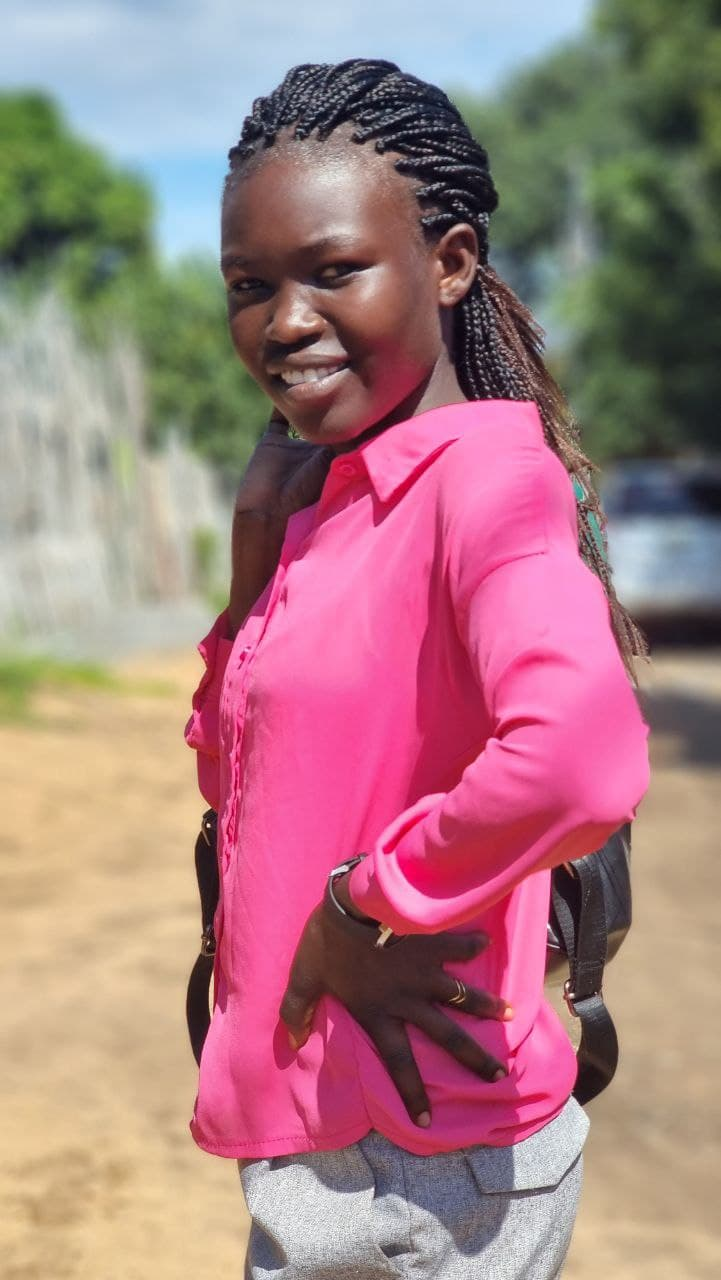
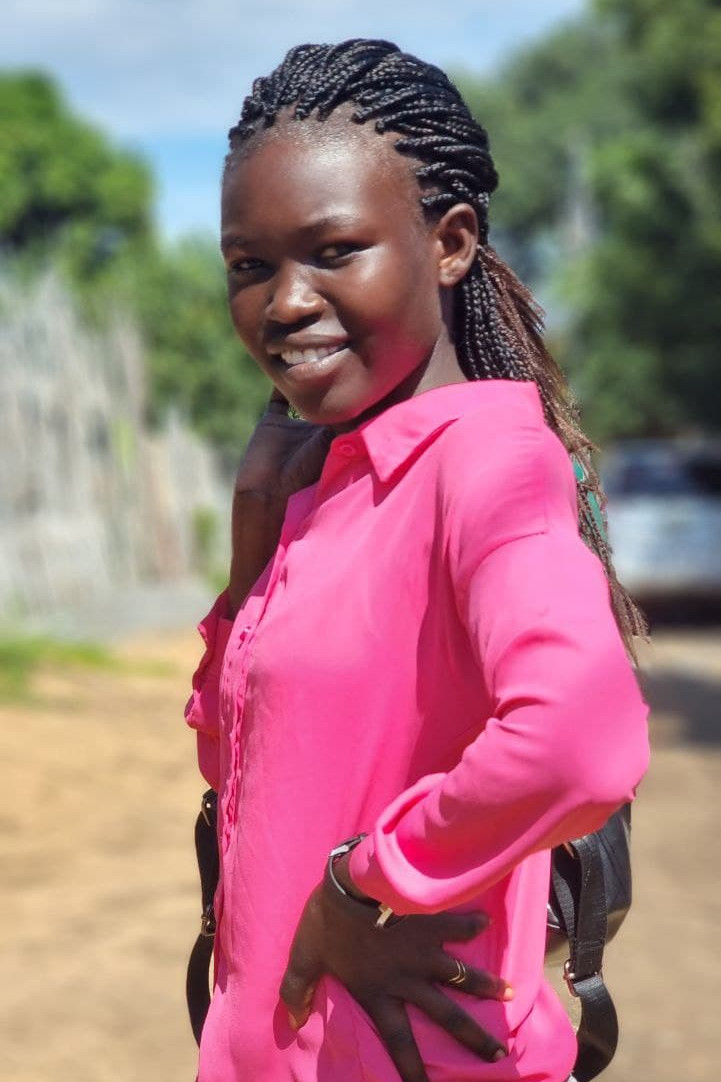
cropped and updated older profile pics

diff --git a/_profiles/01-Gilbert-Charles.md b/_profiles/01-Gilbert-Charles.md
@@ -1,7 +1,7 @@
 ---
 layout: profile
 title:  "Gilbert Charles"
-image: assets/images/profiles/gilbert-charles/gilbert.jpg
+image: assets/images/profiles/gilbert-charles/gilbert-cropped.jpg
 country: South-Sudan
 region: 
 hub: Unkown
